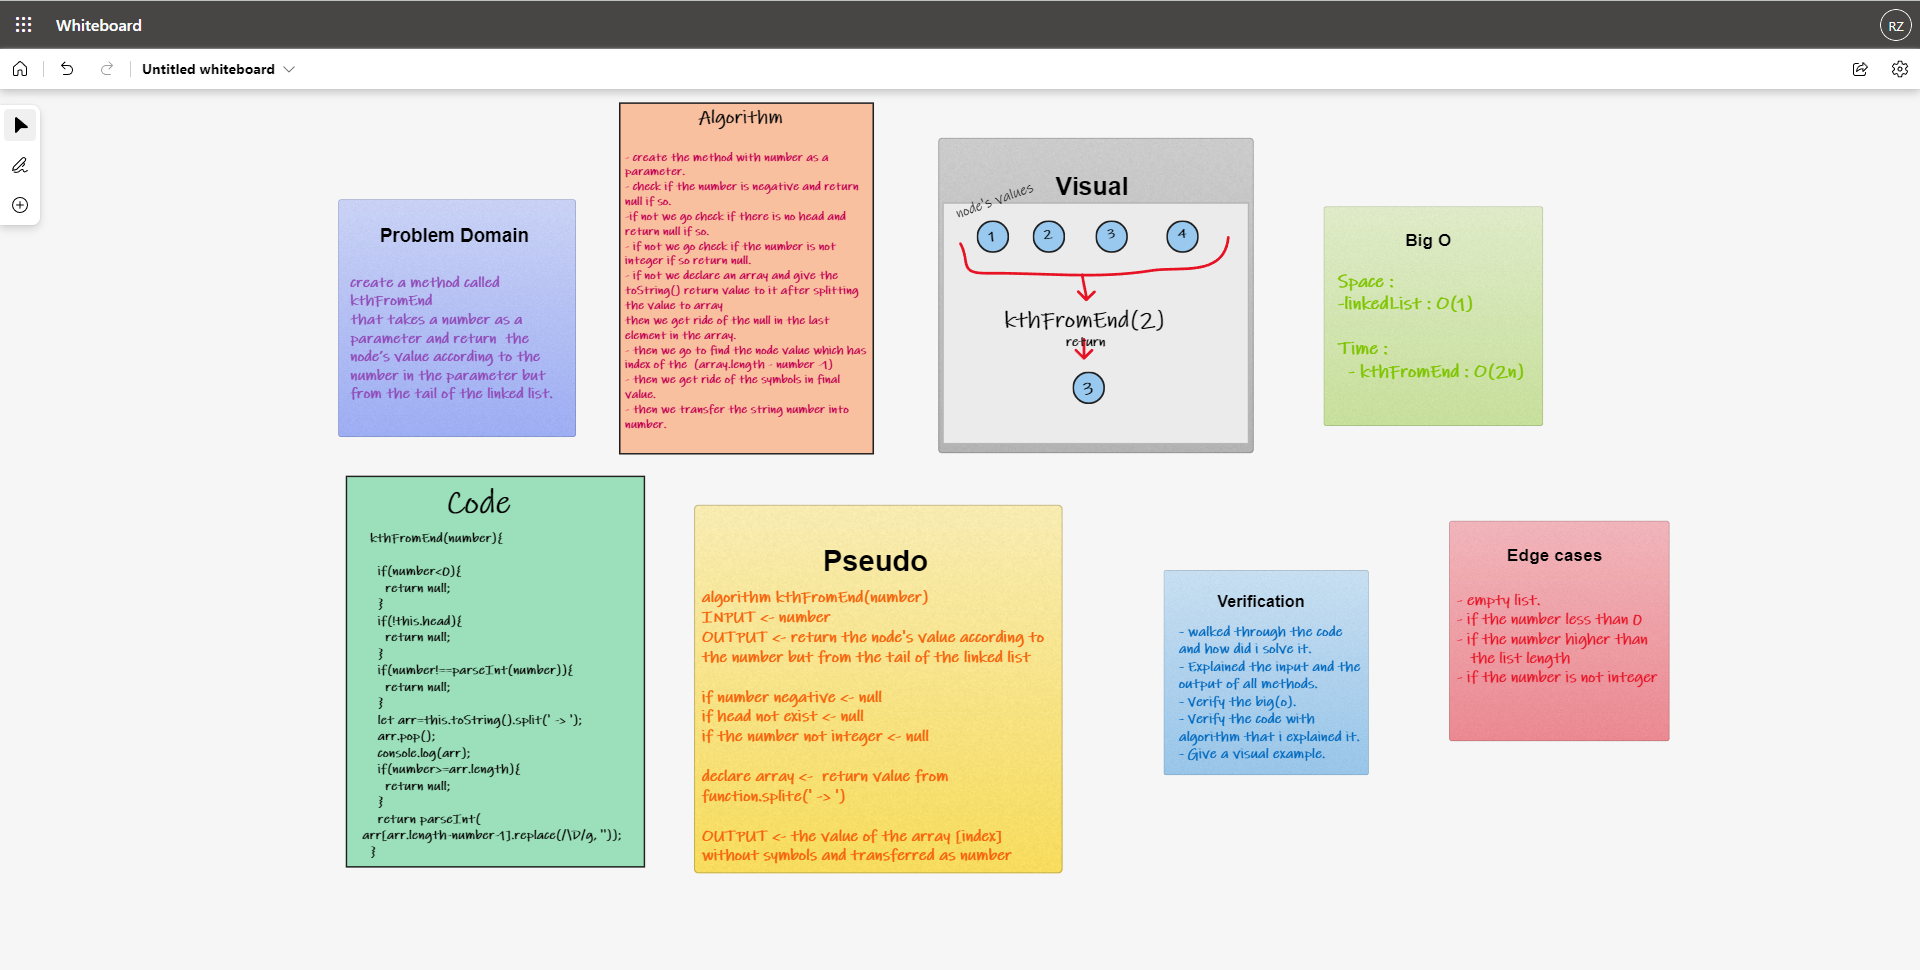
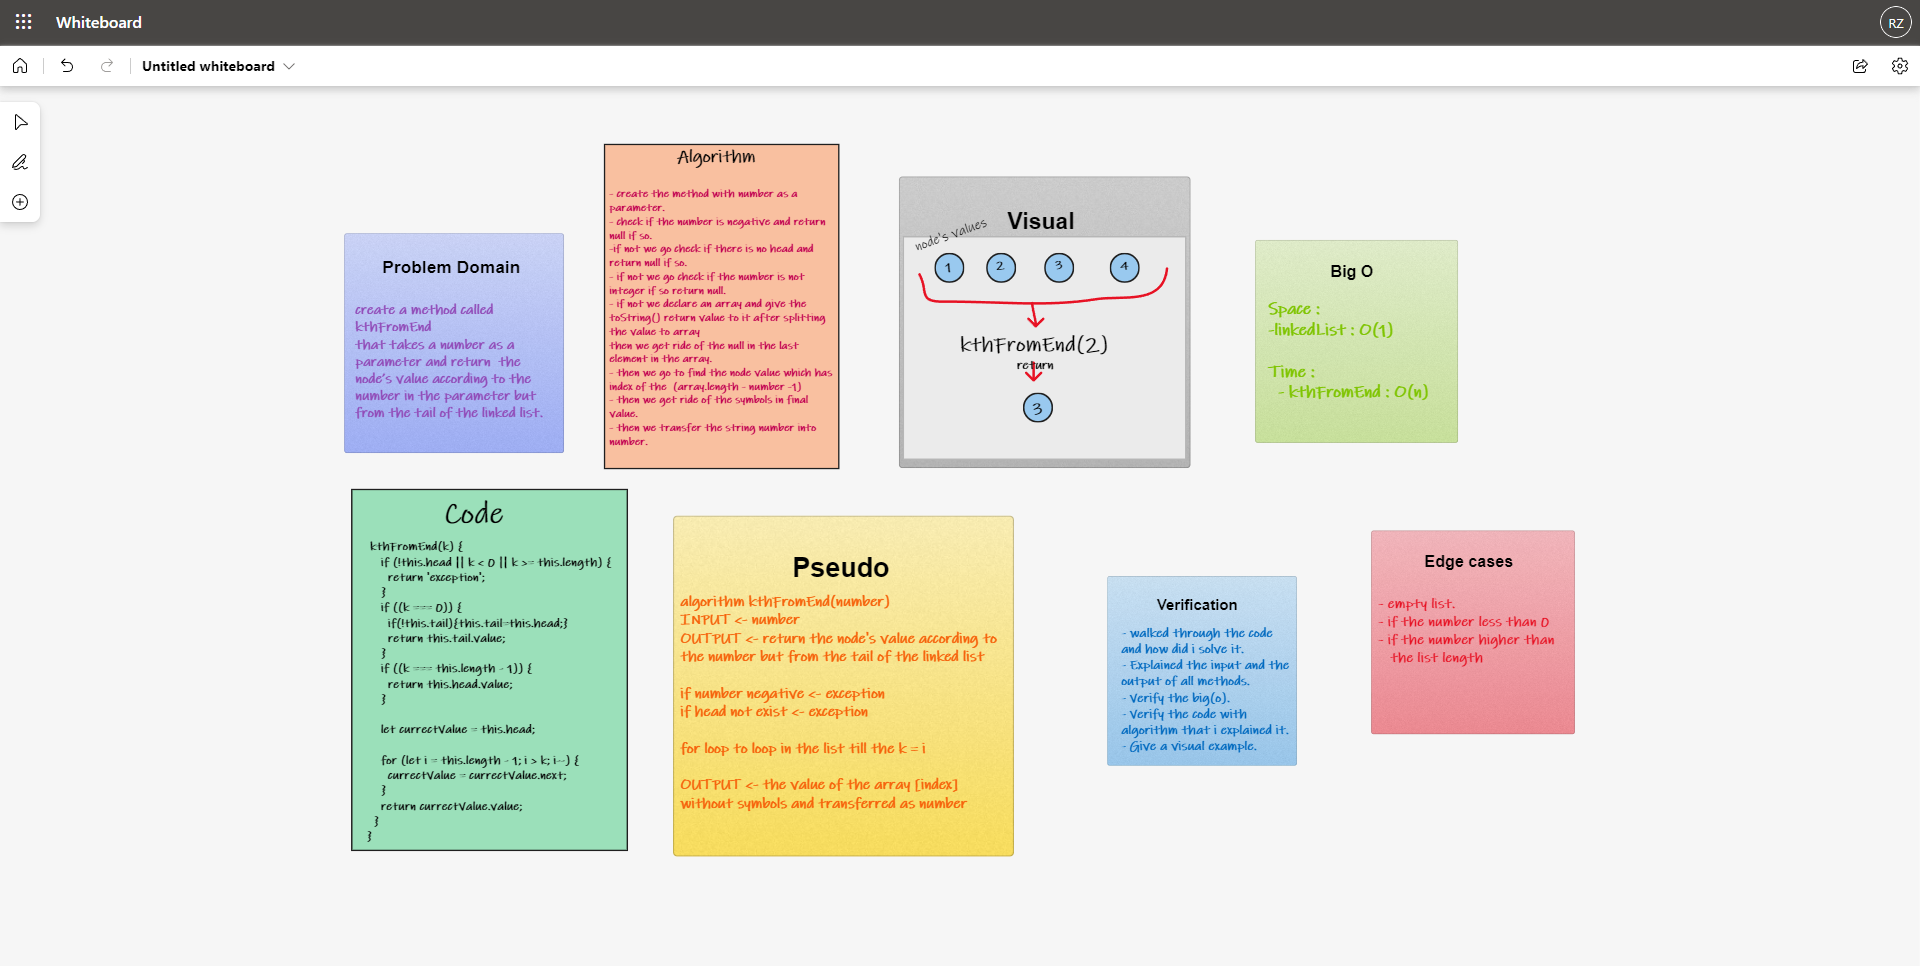
done

Changed region(s): [[0.1562, 0.0932, 0.875, 0.9006], [0.0, 0.0, 1.0, 0.0932], [0.0, 0.1553, 0.0312, 0.1863]]

diff --git a/linked-list/LinkedList.js b/linked-list/LinkedList.js
@@ -1,11 +1,12 @@
-"use strict";
+'use strict';
 
-const Node = require("./Node");
+const Node = require('./Node');
 
 class LinkedList {
   constructor() {
     this.head = null;
     this.tail = null;
+    this.length=0;
   }
   //   ----------------------
   //   Solution without Tail
@@ -31,6 +32,7 @@ class LinkedList {
   //   ----------------------
   insert(value) {
     const newNode = new Node(value);
+    this.length++;
     if (!this.head) {
       this.head = newNode;
       return this;
@@ -63,17 +65,18 @@ class LinkedList {
 
   toString() {
     let nodePosition = this.head;
-    let stringText = "";
+    let stringText = '';
     while (nodePosition.next) {
       stringText = stringText + `{${nodePosition.value}} -> `;
-      nodePosition=nodePosition.next;
+      nodePosition = nodePosition.next;
     }
-    stringText= stringText + `{${nodePosition.value}} -> NULL`;
+    stringText = stringText + `{${nodePosition.value}} -> NULL`;
     return stringText;
   }
 
-  append(value){
+  append(value) {
     const newNode = new Node(value);
+    this.length++;
     if (!this.head) {
       this.head = newNode;
       return this;
@@ -89,7 +92,7 @@ class LinkedList {
     return this;
   }
 
-  insertAfter(value,newValue){
+  insertAfter(value, newValue) {
     let nodePosition = this.head;
     while (nodePosition.value !== value) {
       if (!nodePosition.next) {
@@ -102,17 +105,17 @@ class LinkedList {
       nodePosition = nodePosition.next;
     }
     let newNode = new Node(newValue);
-    if(!nodePosition.next){
-      nodePosition.next=newNode;
-      this.tail=newNode;
-    }else{
+    if (!nodePosition.next) {
+      nodePosition.next = newNode;
+      this.tail = newNode;
+    } else {
       let nextNode = nodePosition.next;
       nodePosition.next = newNode;
-      newNode.next=nextNode;
+      newNode.next = nextNode;
     }
   }
 
-  insertBefore(value,newValue){
+  insertBefore(value, newValue) {
     let nodePosition = this.head;
     let saveNodeBefore = this.head;
     while (nodePosition.value !== value) {
@@ -123,39 +126,56 @@ class LinkedList {
           return 'The number is not in the node';
         }
       }
-      saveNodeBefore=nodePosition;
+      saveNodeBefore = nodePosition;
       nodePosition = nodePosition.next;
     }
     let newNode = new Node(newValue);
-    if(saveNodeBefore===nodePosition){
+    if (saveNodeBefore === nodePosition) {
       saveNodeBefore.next = newNode;
-      this.head=newNode;
-    }else{
+      this.head = newNode;
+    } else {
       saveNodeBefore.next = newNode;
-      newNode.next=nodePosition;
+      newNode.next = nodePosition;
     }
   }
 
-  kthFromEnd(number){
+  // kthFromEnd(number) {
+  //   if (number < 0) {
+  //     return null;
+  //   }
+  //   if (!this.head) {
+  //     return null;
+  //   }
+  //   if (number !== parseInt(number)) {
+  //     return null;
+  //   }
+  //   let arr = this.toString().split(' -> ');
+  //   arr.pop();
+  //   console.log(arr);
+  //   if (number >= arr.length) {
+  //     return null;
+  //   }
+  //   return parseInt(arr[arr.length - number - 1].replace(/\D/g, ''));
+  // }
 
-    if(number<0){
-      return null;
+  kthFromEnd(k) {
+    if (!this.head || k < 0 || k >= this.length) {
+      return 'exception';
     }
-    if(!this.head){
-      return null;
+    if ((k === 0)) {
+      if(!this.tail){this.tail=this.head;}
+      return this.tail.value;
     }
-    if(number!==parseInt(number)){
-      return null;
+    if ((k === this.length - 1)) {
+      return this.head.value;
     }
-    let arr=this.toString().split(' -> ');
-    arr.pop();
-    console.log(arr);
-    if(number>=arr.length){
-      return null;
+
+    let currectValue = this.head;
+
+    for (let i = this.length - 1; i > k; i--) {
+      currectValue = currectValue.next;
     }
-    return parseInt(arr[arr.length-number-1].replace(/\D/g, ''));
+    return currectValue.value;
   }
-
 }
 module.exports = LinkedList;
-

diff --git a/linked-list/__test__/LinkedList.test.js b/linked-list/__test__/LinkedList.test.js
@@ -106,7 +106,7 @@ describe('Linked List kth',()=>{
     newLinkedList.insert(1);
     newLinkedList.insert(2);
     newLinkedList.insert(3);
-    expect(newLinkedList.kthFromEnd(5)).toEqual(null);
+    expect(newLinkedList.kthFromEnd(5)).toEqual('exception');
   });
 
   it(('test where the number and the length of the linked list are the same'),()=>{
@@ -114,7 +114,7 @@ describe('Linked List kth',()=>{
     newLinkedList.insert(1);
     newLinkedList.insert(2);
     newLinkedList.insert(3);
-    expect(newLinkedList.kthFromEnd(3)).toEqual(null);
+    expect(newLinkedList.kthFromEnd(3)).toEqual('exception');
   });
 
   it(('test Where the number is not a positive integer'),()=>{
@@ -122,7 +122,7 @@ describe('Linked List kth',()=>{
     newLinkedList.insert(1);
     newLinkedList.insert(2);
     newLinkedList.insert(3);
-    expect(newLinkedList.kthFromEnd(-1)).toEqual(null);
+    expect(newLinkedList.kthFromEnd(-1)).toEqual('exception');
   });
 
   it(('test Where the linked list is of a size 1'),()=>{
@@ -133,12 +133,12 @@ describe('Linked List kth',()=>{
 
   it(('test where the number is not at the end, but somewhere in the middle of the linked list'),()=>{
     let newLinkedList = new LinkedList();
-    newLinkedList.insert(1);
-    newLinkedList.insert(2);
-    newLinkedList.insert(3);
-    newLinkedList.insert(4);
-    newLinkedList.insert(5);
-    newLinkedList.insert(6);
+    newLinkedList.append(1);
+    newLinkedList.append(2);
+    newLinkedList.append(3);
+    newLinkedList.append(4);
+    newLinkedList.append(5);
+    newLinkedList.append(6);
     expect(newLinkedList.kthFromEnd(3)).toEqual(3);
   });
 });

diff --git a/README.md b/README.md
@@ -20,4 +20,12 @@ To run your tests
 
 ### 401 Data Structures, Code Challenges
 
-- Please follow the instructions specific to your 401 language, which can be found in the directory below, matching your course.
+| Challenge                 | Link                                                       |
+| ------------------------- | ---------------------------------------------------------- |
+| array-reverse             | [link](./array-reverse/README.md)                           |
+| array-insert-shift        | [link](./array-insert-shift/README.md)                       |
+| array-binary-search       | [link](./array-binary-search/README.md)                      |
+| linked-list               | [link](./linked-list/README.md)                 |
+| linked-list-insertions    | [link](./linked-list/linked-list-insertions-README.md) |
+| linked-list-kth           | [link](./linked-list/linked-list-kth-README.md)        |
+| Linked-List-Zip           | [link](./linked-list/linked-list-Zip-README.md)          |
